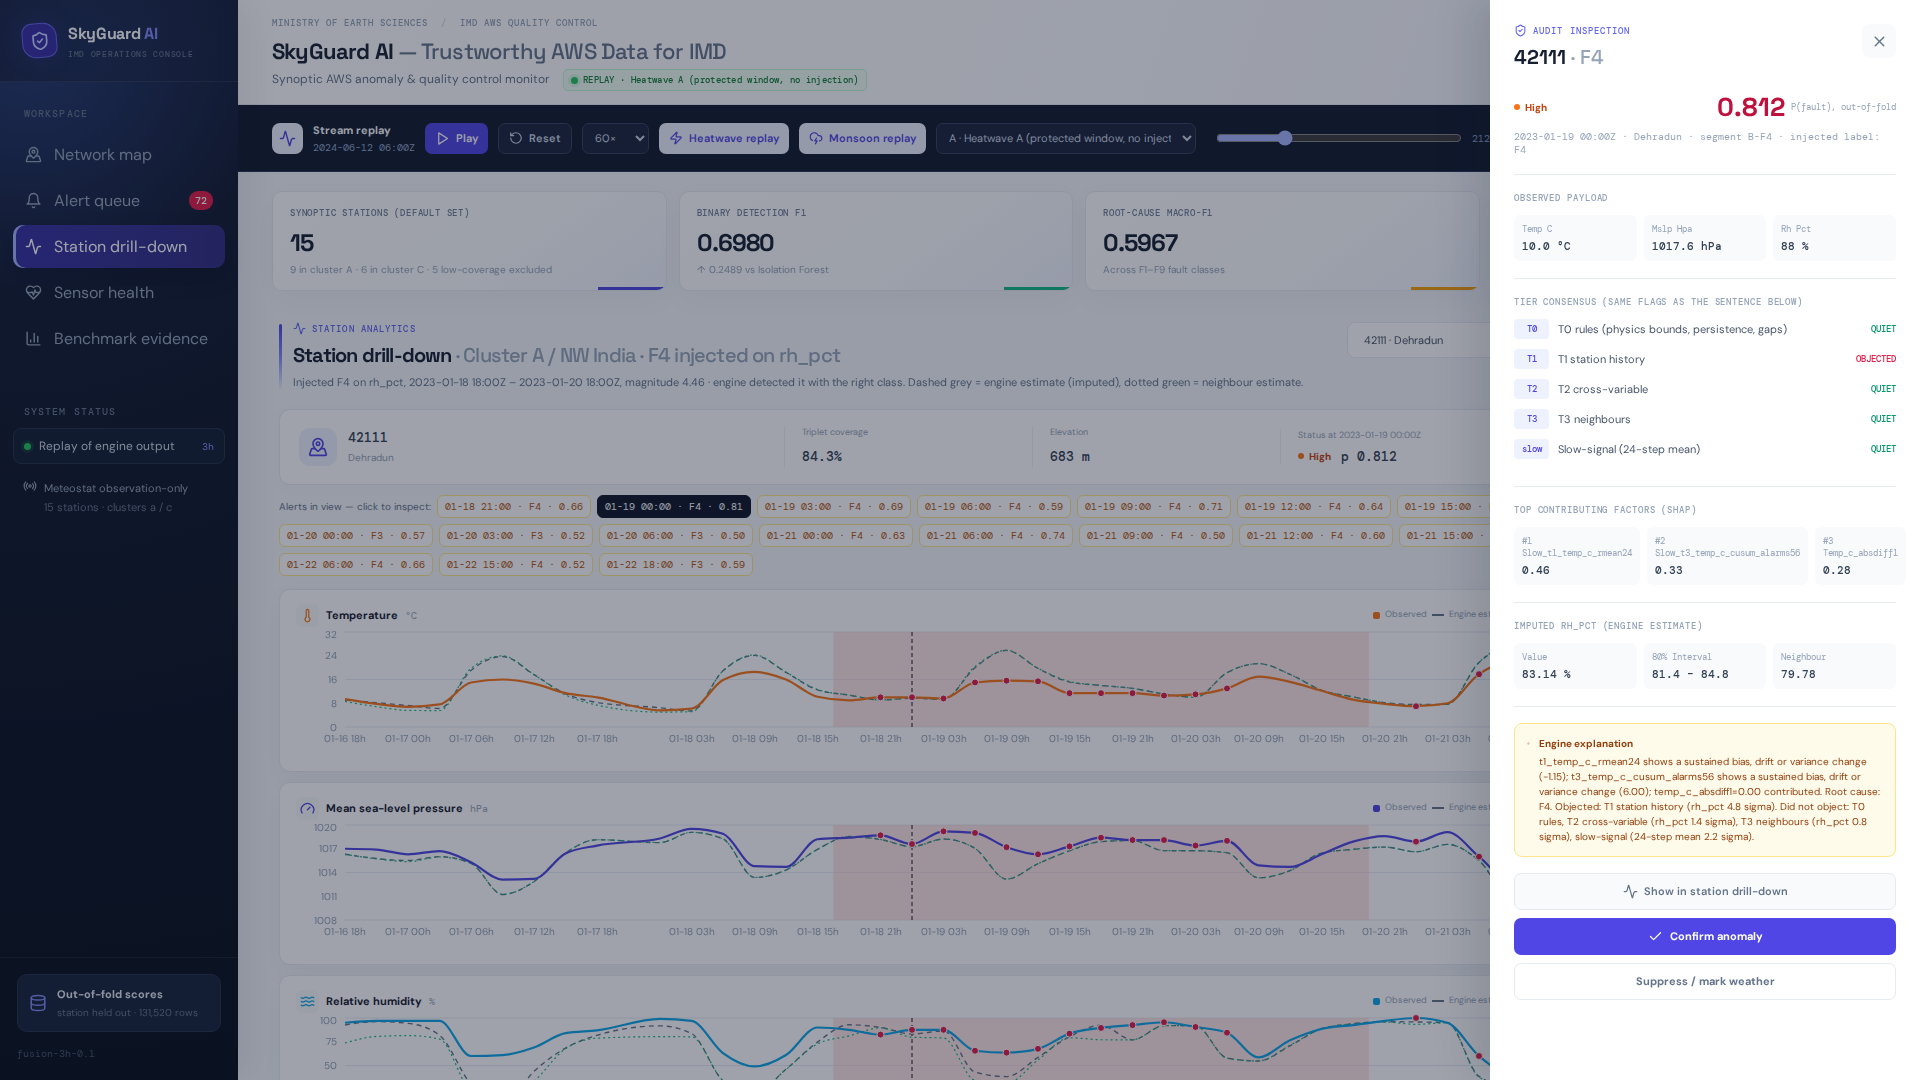
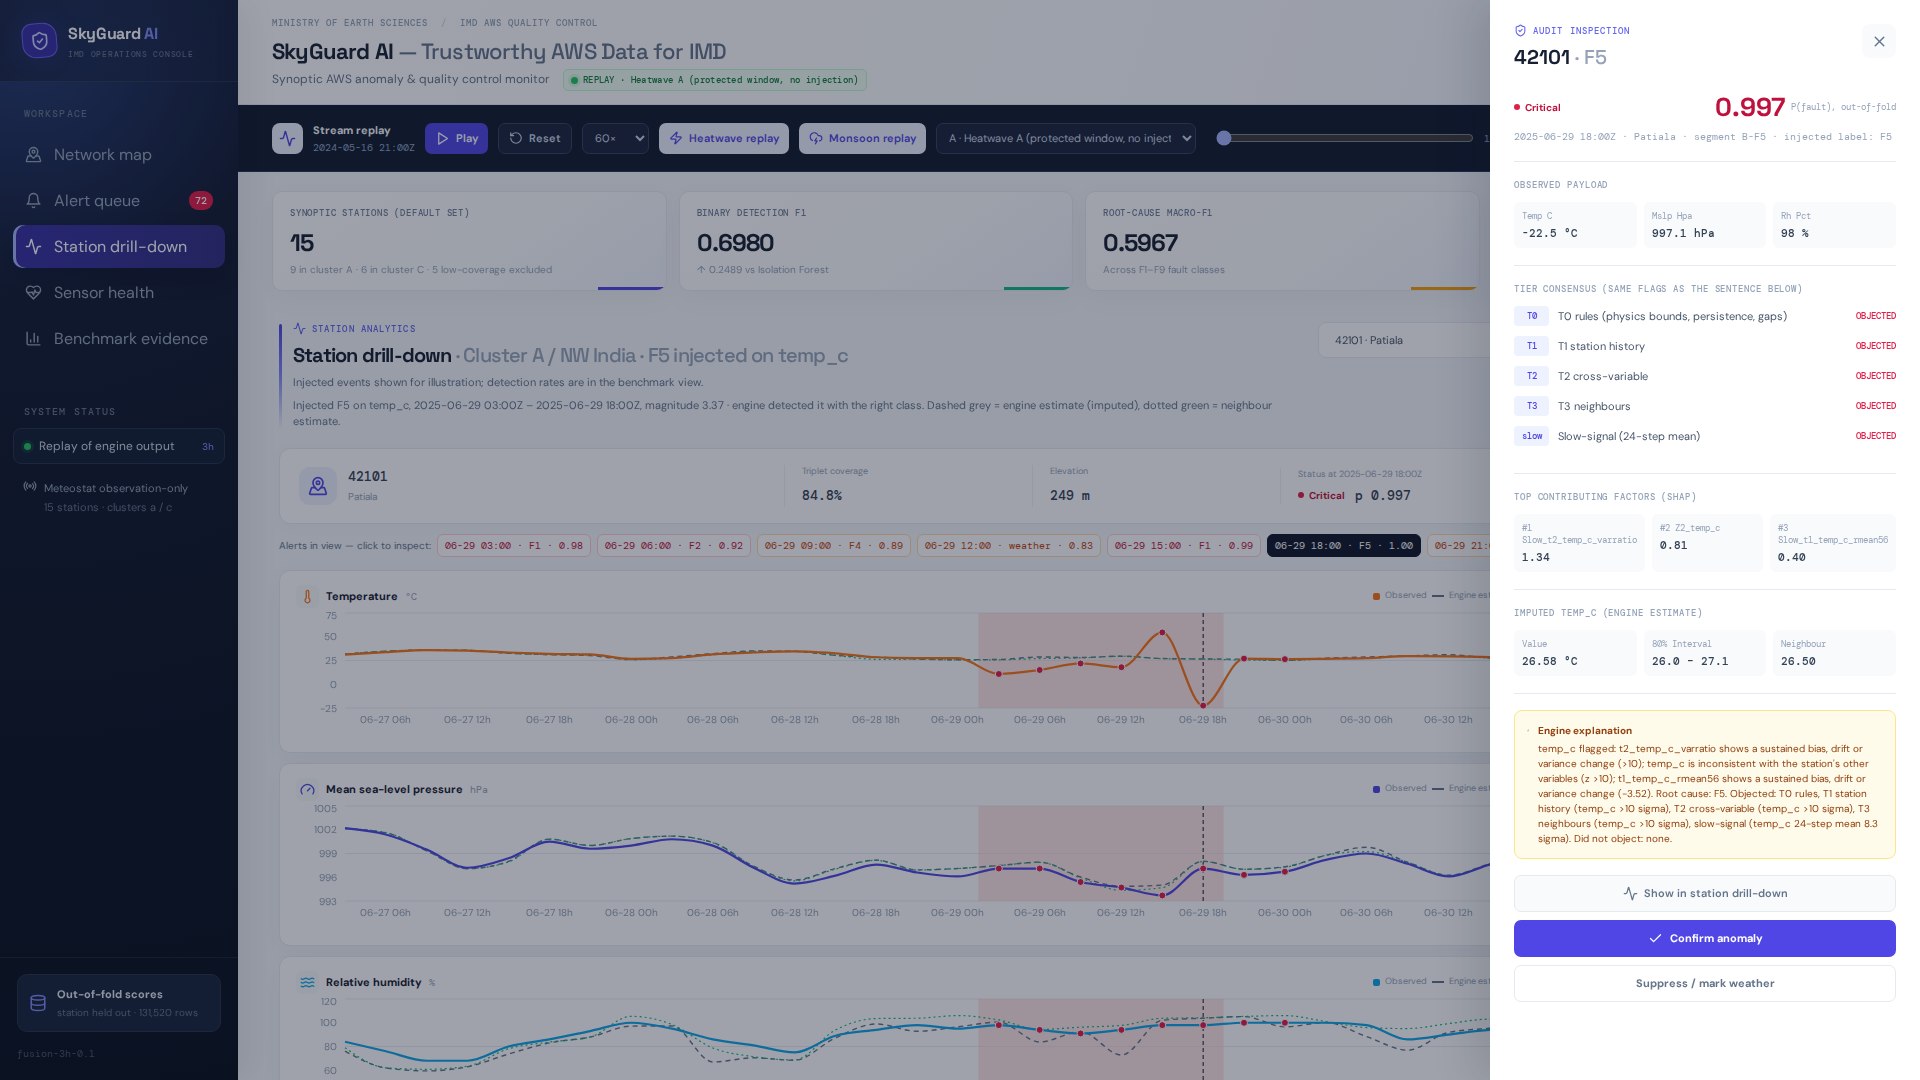
screenshots: re-take 03 on a matched F5 event and 04; session log

diff --git a/SESSION-LOG.md b/SESSION-LOG.md
@@ -413,3 +413,33 @@ regenerated.
 Finding: most stations score low on F-10 health. Injected F6/F8 values inflate sigma_r, and the bias
 term |b|/tau is strict at tau = 0.5 C / 0.5 hPa. That is how the spec formula reads the injected
 stream; the weights were not changed.
+
+## fix/dashboard-data — explanation variable, F-10 tolerance, segment caption
+
+0. `outputs/scored_stream.parquet` untracked (.gitignore). The branch was unpushed, so the export commit
+   was rebuilt without the 19 MB blob. `tests/test_replay.py` reads the parquet only after `make all`
+   rebuilds it; a fresh clone plus `make all` passes.
+1. Sentence builder: the flagged variable is the one with the largest positive SHAP mass. The top-3
+   factors and the witnesses are built for that variable, and untemplated "x=0.00 contributed" factors
+   are dropped. Gap rows say "No observation received for N steps" and quote no sigma. The binary-head
+   top factor used by `explanation_quality` is unchanged, so metrics.json is unchanged apart from the
+   latency timer. On detected single-variable fault rows, the share whose leading variable equals the
+   injected variable went from 0.803 to 0.929:
+   F1 0.943 -> 0.989, F2 0.774 -> 0.934, F3 0.846 -> 0.896, F4 0.833 -> 0.890, F5 0.715 -> 0.920,
+   F6 0.873 -> 0.971, F8 0.977 -> 0.989, F9 0.812 -> 0.848. For F7 (215 rows), the gap sentence went
+   from 0 % to 100 % of rows, and the share quoting sigma went from 100 % to 0 %.
+2. Health diagnosis (`src/health_diagnosis.py`, `outputs/health_diagnosis.json`). On clean stretches
+   (no injected fault and no alert in 30 days): median |b|/tau 0.72, f30 0, variance ratio 0.91, H 58.6,
+   with 20 % of steps at H = 0. On injected stretches: |b|/tau 3.22, f30 0.08, ratio 1.89, H 0. The
+   healthy EWMA-bias std is about one tolerance (median sd/tau: temp 1.40, pressure 1.09, RH 0.93), so
+   the bias term saturates on clean data. Adopted tau_eff = max(spec tolerance, 3 x healthy EWMA-bias
+   std), taken from the clean stream only; this is a documented deviation from the spec, and the weights
+   are unchanged. Acceptance test on 74 F3/F4 bias windows vs 744 clean windows: AUC-ROC 0.769 -> 0.799;
+   median H (bias / clean) 0 / 53 -> 49 / 84; clean station-variables at H >= 80 2 % -> 76 %. AUC is
+   above 0.65, so health is not labelled experimental. Days-to-maintenance was never shown.
+3. Segment B caption: "Injected events shown for illustration; detection rates are in the benchmark
+   view."
+4. Screenshot 03 re-taken on B-F5 (42101, injected on temp_c; the sentence leads with temp_c; p 0.997,
+   critical). Screenshot 04 re-taken. 01, 02, 05 and 06 are unchanged.
+Verified: `make all` (9 passed), `pnpm run check`, `pnpm run build`, and 0 console errors in
+Playwright.
